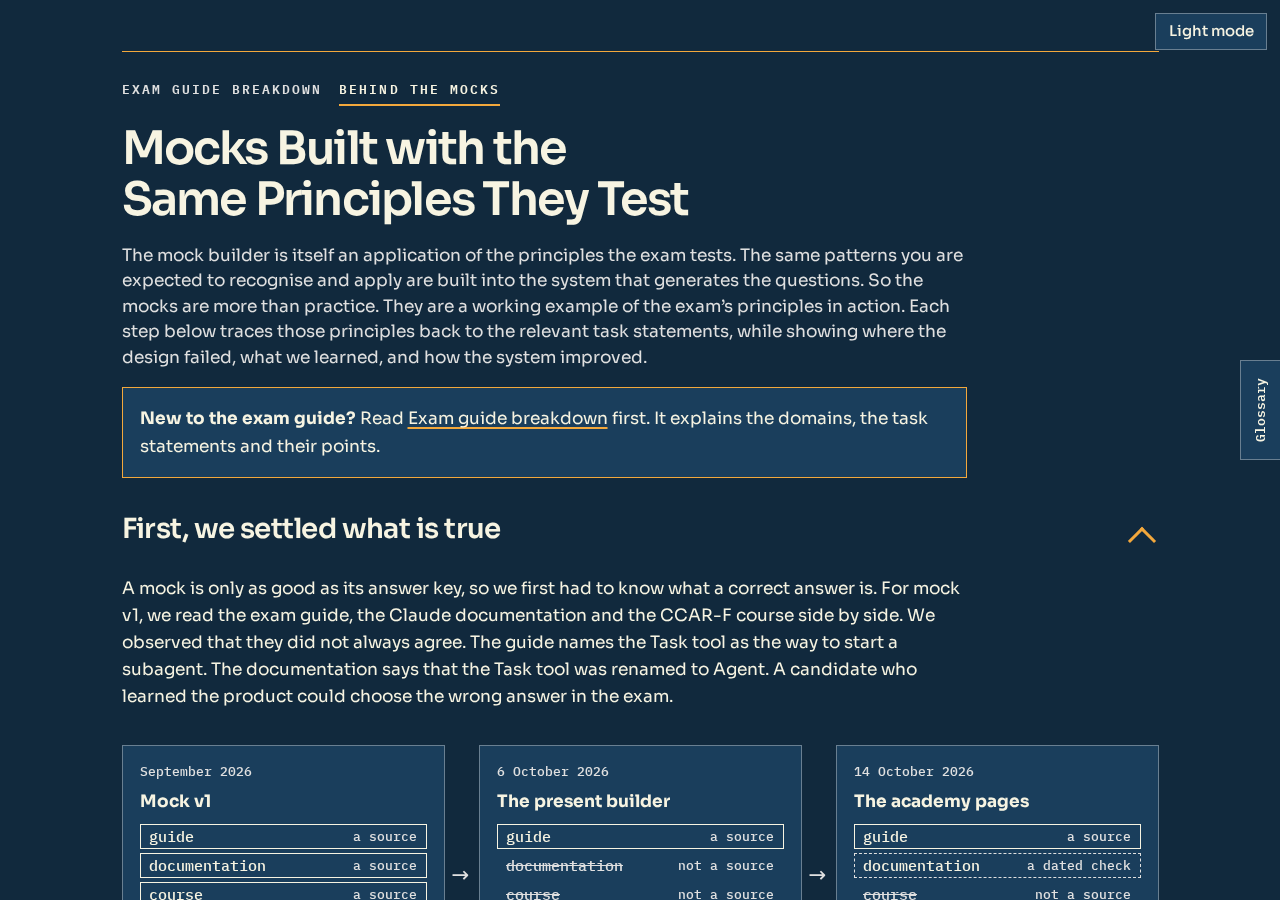
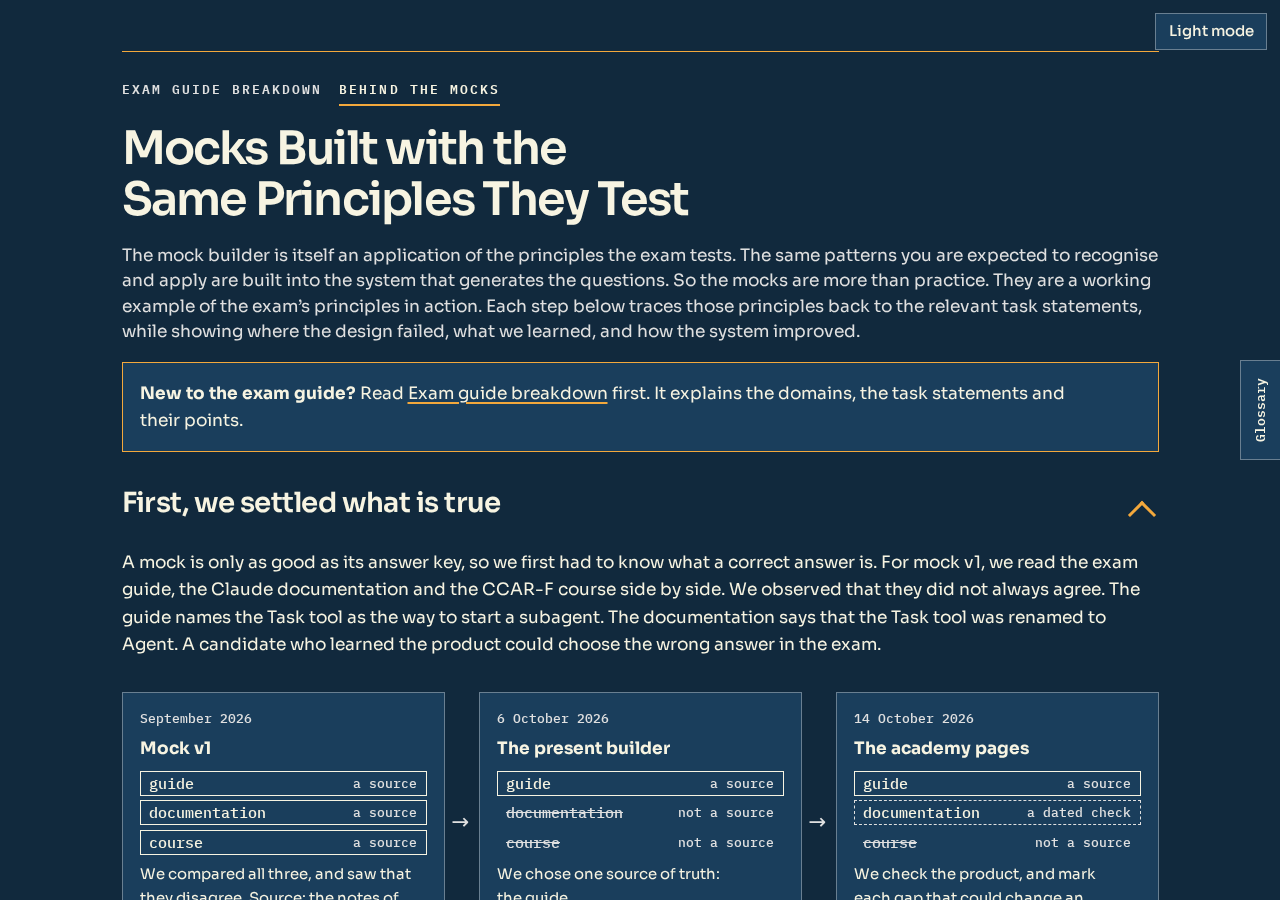
Tab 1: paragraphs and lists as wide as the figures, as in version 4 of tab 2 (owner, 15 October 2026). academy-tab1-wide.css, switch WIDE_TEXT in the tab 1 builder. check-pages prints All checks passed for tab 1

Changed region(s): [[0.0938, 0.28, 0.9062, 1.0]]

diff --git a/academy/pages/academy-tab1-wide.css b/academy/pages/academy-tab1-wide.css
@@ -1,0 +1,4 @@
+/* Tab 1 (owner, 15 October 2026): the paragraphs and lists use the full width of the figures, in place of the limit of
+   65 characters, as in version 4 of tab 2. Only exam-guide-breakdown.html loads this file, last. To undo it, set
+   WIDE_TEXT = False in academy/build/make-exam-guide-breakdown.py and build again. Headings keep their own limits. */
+main :is(p, .lead, figcaption, ul.levels, ol.checks, .callout.newcomer, dl.glossary, .glist li) { max-width: none !important; }

diff --git a/academy/pages/exam-guide-breakdown.html b/academy/pages/exam-guide-breakdown.html
@@ -7,6 +7,7 @@
 <meta name="description" content="The CCAR-F exam guide in 5 domains and 30 task statements, each in three levels.">
 <title>Exam guide breakdown: the CCAR-F exam guide, task statement by task statement</title>
 <link rel="stylesheet" href="academy.css">
+<link rel="stylesheet" href="academy-tab1-wide.css">
 <script src="exam-guide-breakdown.js"></script>
 </head>
 <body>

diff --git a/academy/build/make-exam-guide-breakdown.py b/academy/build/make-exam-guide-breakdown.py
@@ -3208,5 +3208,12 @@ for k, v in POP.items():
 write("exam-guide-breakdown.html", page("Exam guide breakdown: the CCAR-F exam guide, task statement by task statement", BODY,
                                         "exam-guide-breakdown.js", "The CCAR-F exam guide in 5 domains and 30 task statements, each in three levels."))
 script_file("exam-guide-breakdown.js", POP, CARD)
+# paragraphs as wide as the figures (owner, 15 October 2026). False brings back the limit of 65 characters
+WIDE_TEXT = True
+if WIDE_TEXT:
+    _p = os.path.join(ROOT, "academy/pages/exam-guide-breakdown.html")
+    _t = open(_p, encoding="utf-8").read()
+    assert _t.count('<link rel="stylesheet" href="academy.css">') == 1
+    open(_p, "w", encoding="utf-8", newline="\n").write(_t.replace('<link rel="stylesheet" href="academy.css">', '<link rel="stylesheet" href="academy.css">\n<link rel="stylesheet" href="academy-tab1-wide.css">'))
 print("Wrote academy/pages/exam-guide-breakdown.html and exam-guide-breakdown.js: %d preview cards, %d popups, %d of %d task statements written."
       % (len(CARD), len(POP), len(PART), len(TS)))
